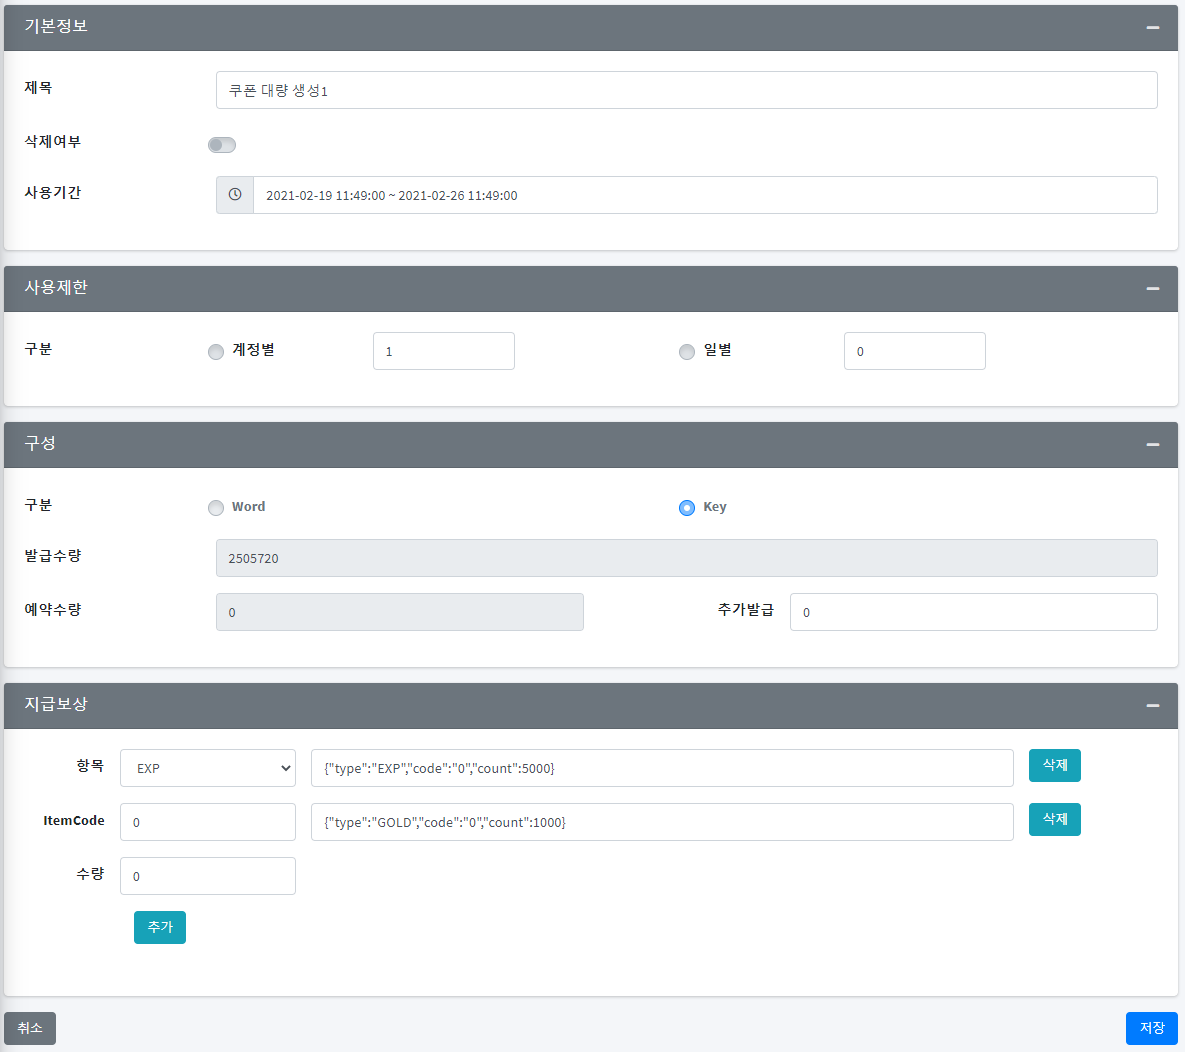
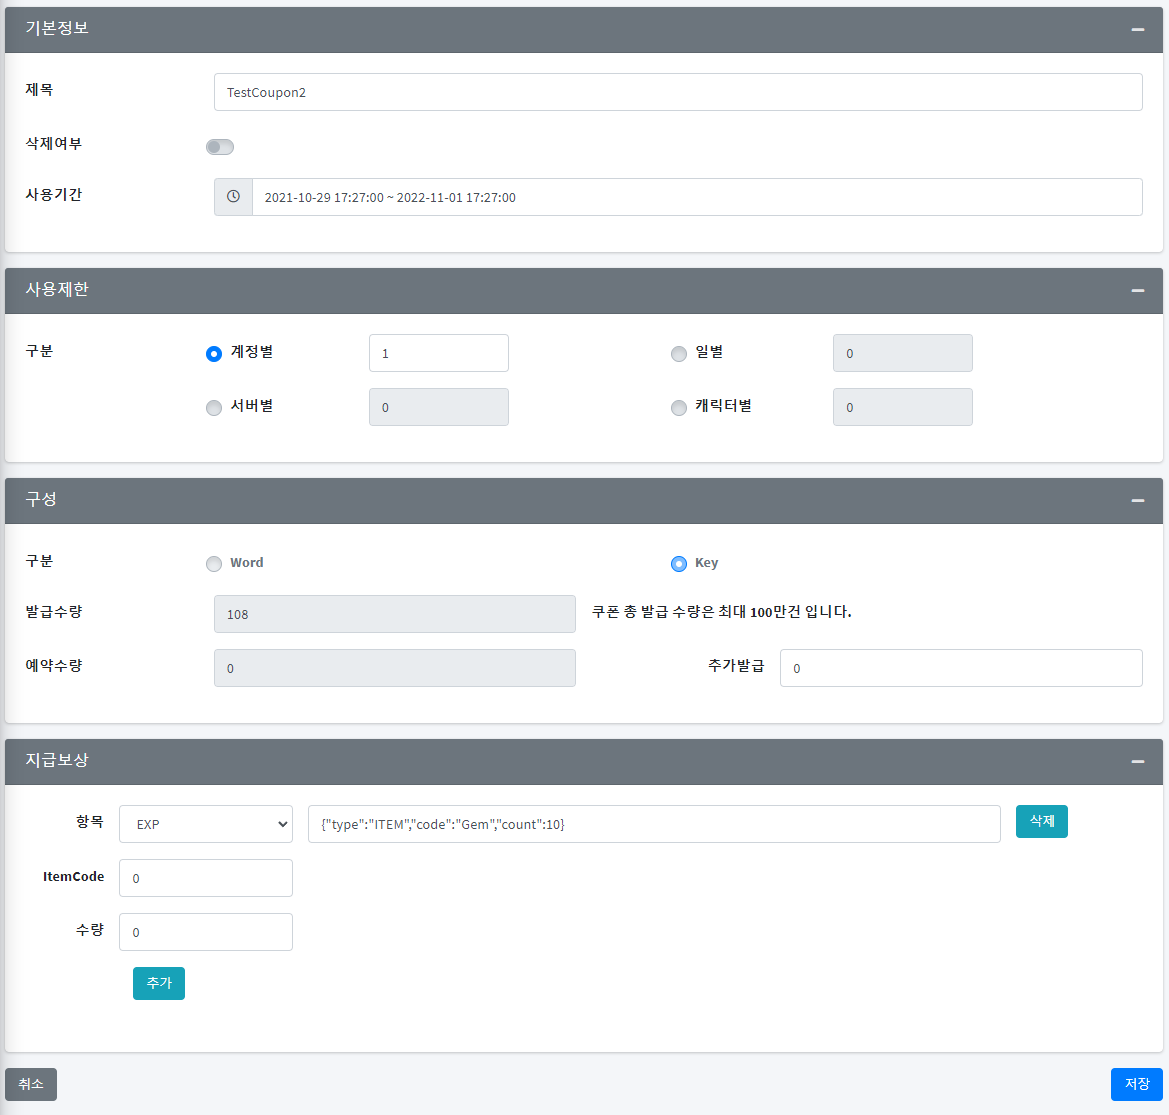
쿠폰 사용 가이드 문구 수정

diff --git a/admin-doc.md b/admin-doc.md
@@ -132,11 +132,13 @@ URL : http://pubsdk.igamepub.co.kr/Main/Login/{Appid}
 ![](https://github.com/gamepubcorp/guide/blob/main/image-admin/16.png?raw=true)
 
 * 결제상태
-  * 결제시작 : 가결제 (거래번호 생성)
-  * 결제진행중 : 클라이언트 결제 완료, PubSDK 서버에 영수증 검증 요청
+  * 결제시도 : 가결제 (거래번호 생성)
   * 결제완료 : 영수증 검증이 완료된 상태
   * 아이템지급 : 게임 서버로 아이템 지급 처리 완료
-  * 개인환불 : 구글 사용자환불조회 API를 통하여 환불 처리된 상태
+  * 개인환불 : 스토어 사용자환불조회 API를 통하여 환불 처리된 상태
+  * 재결제 : 사용자환불 후 사용자 재결제 (아이템은 지급 되지 않음)
+    * 게임 서버 URL으로 아이템 지급 호출 없음.
+    * 클라이언트게임 일 경우 VoidedTid 항목을 참고 하여 아이템 지급 하지 않도록 처리.
 * 상세보기
   * 아이템 지급 요청 결과를 확인 및 재지급 요청 가능
 * 내려받기
@@ -411,11 +413,13 @@ IP관리 메뉴에 클라이언트 IP가 허용IP로 등록이 되어 있을 경
   * 제목 : 쿠폰명
   * 삭제여부 : 일시적 사용 불가 처리
   * 사용기간 : 쿠폰 사용 유효기간
-* 사용제한 : 쿠폰 사용 횟수 제한을 계정, 일자 단위로 구분
+* 사용제한 : 쿠폰 사용 횟수 제한
+  * 계정, 일자, 서버, 캐릭터 단위로 구분
+  * 쿠폰 사용 API 호출 시 서버, 캐릭터 단위로 제한 할 경우 서버, 캐릭터 고유값 필수 입력
 * 구성
   * Word (원코드 쿠폰) : 단어 형식으로 등록된 단어를 사용자가 입력 시 보상 수령 가능 
   * Key (난수) : 미리 생성된 Key (16자리)와 일치된 값을 사용자가 입력 시 보상 수령 가능
-    * 생성된  Key는 데이터 추출 요청 하여 수동으로 전달 가능
+    * 생성된  Key는 목록에서 CSV 형식으로 다운로드 가능
     * 신규, 추가 발급 시 예약 (예약수량 증가)되며 1시간 단위로 예약 순서에 맞추어 생성
 * 지급보상
   * Json 형식으로 항목이 추가 되도록 구성 되어, 쿠폰 사용시 설정된 쿠폰보상URL 으로 전달
